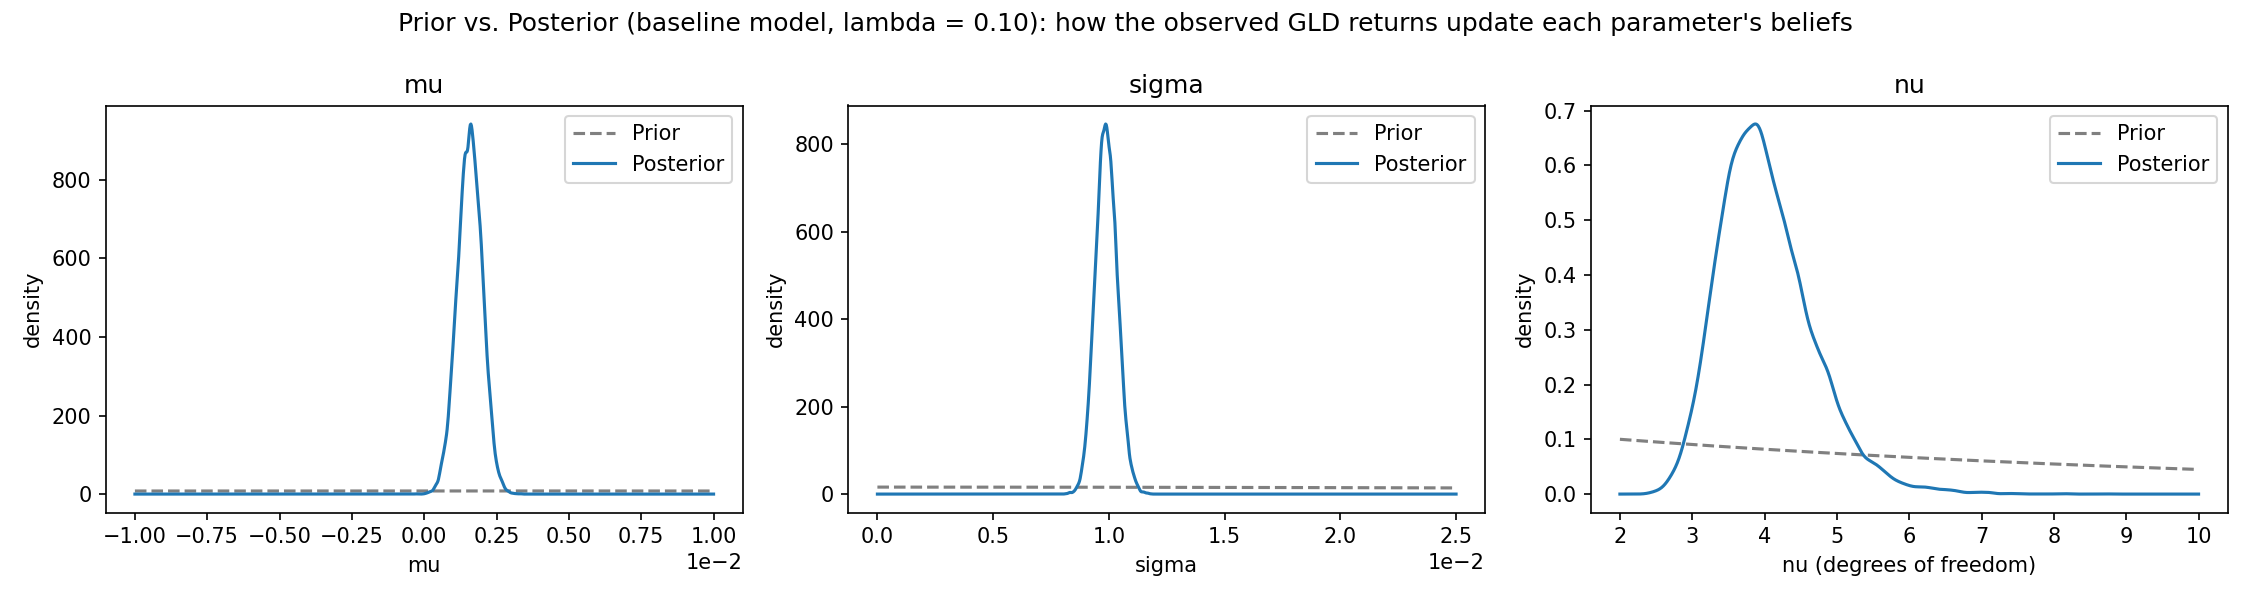
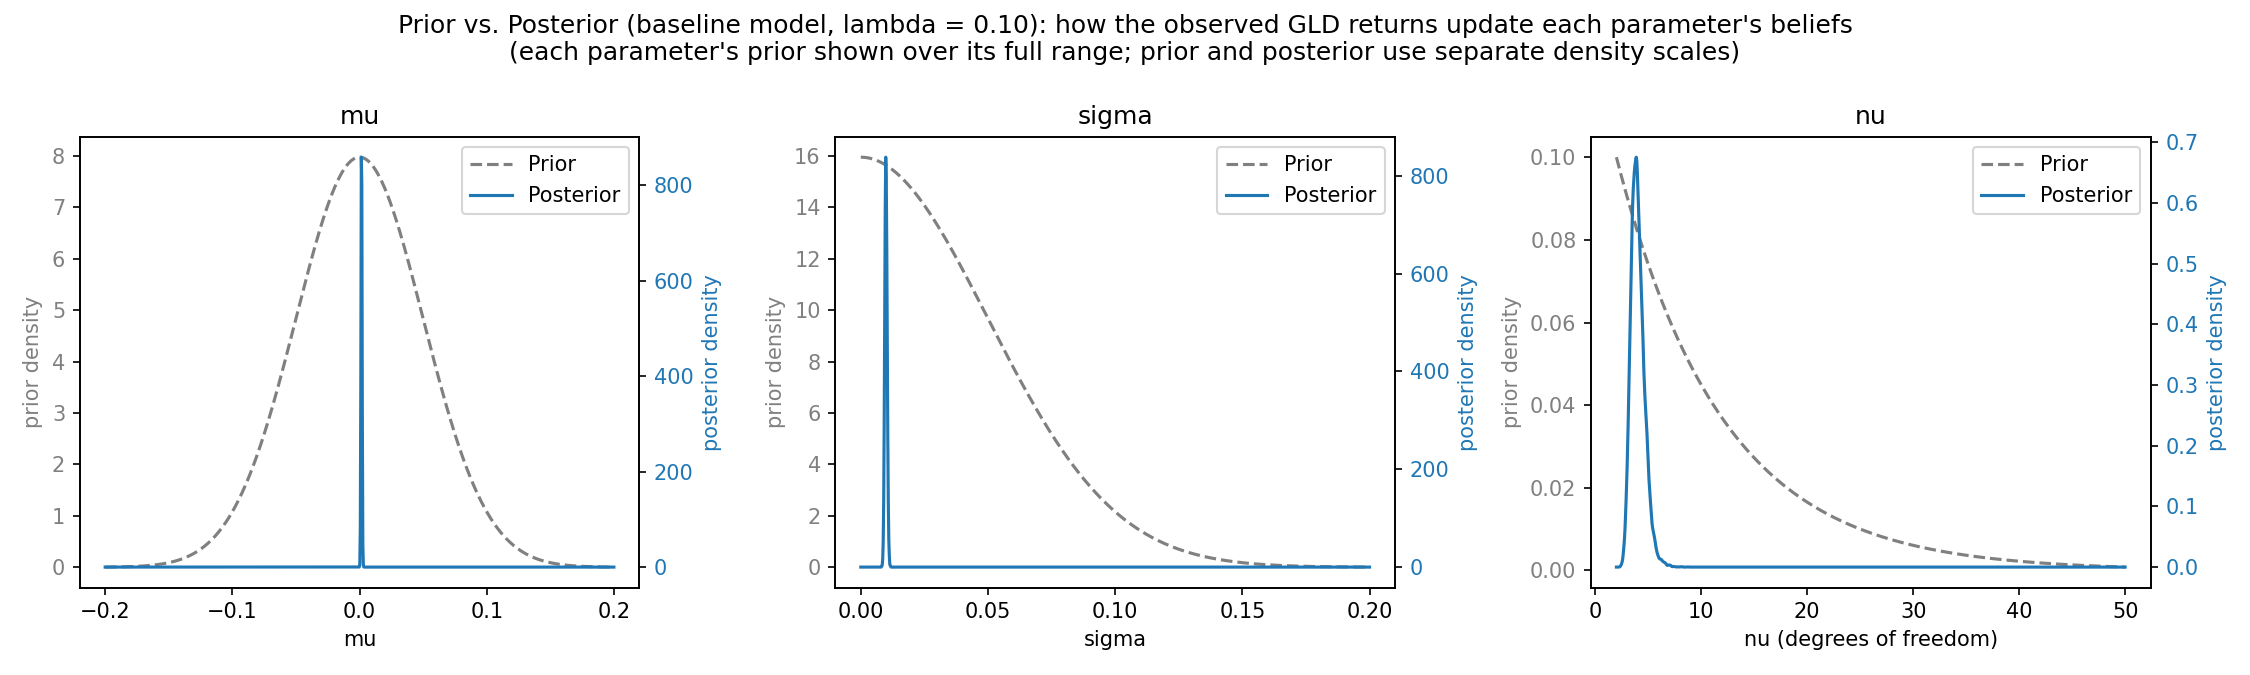
fix: show true prior shapes in prior-vs-posterior plot via twin y-axes
Plotting prior and posterior on a shared y-axis over a narrow window made
every prior look flat/linear, since each prior is far more diffuse than
its posterior. Now each panel plots the prior over its full natural range
(showing the real Normal/Half-Normal/Exponential shape) with the posterior
on a separate y-axis (twinx), so both curves are visible at their own scale.

diff --git a/src/run_mcmc.py b/src/run_mcmc.py
@@ -215,32 +215,48 @@ if __name__ == "__main__":
     baseline_sigma = np.concatenate(baseline_param_chains["sigma"])
     baseline_nu = np.concatenate(baseline_param_chains["nu"])
 
-    # (param label, x-grid, prior pdf, baseline posterior draws, x-axis label)
+    # Each prior's full natural range, wide enough to show its true shape
+    # (bell/half-normal peak/exponential decay). The posterior is far more
+    # concentrated than the prior (that is the point of this plot), so prior
+    # and posterior are put on separate y-axes (twinx) -- sharing one y-axis
+    # would always flatten the lower-peaked curve to a near-invisible line.
+    # (param label, x-grid over the prior's full range, prior pdf,
+    #  baseline posterior draws, x-axis label)
     prior_posterior_specs = [
-        ("mu", np.linspace(-0.01, 0.01, 1000),
+        ("mu", np.linspace(-0.2, 0.2, 1000),
          norm(loc=0.0, scale=0.05).pdf, baseline_mu, "mu"),
-        ("sigma", np.linspace(0.0, 0.025, 1000),
+        ("sigma", np.linspace(0.0, 0.2, 1000),
          halfnorm(scale=0.05).pdf, baseline_sigma, "sigma"),
-        ("nu", np.linspace(2.0, 10.0, 1000),
+        ("nu", np.linspace(2.0, 50.0, 1000),
          expon(loc=2.0, scale=1.0 / 0.1).pdf, baseline_nu,
          "nu (degrees of freedom)"),
     ]
 
-    fig, axes = plt.subplots(1, 3, figsize=(15, 4))
-    for ax, (param, grid, prior_pdf, posterior_draws, xlabel) in zip(
+    fig, axes = plt.subplots(1, 3, figsize=(15, 4.5))
+    for ax_prior, (param, grid, prior_pdf, posterior_draws, xlabel) in zip(
             axes, prior_posterior_specs):
         posterior_density = gaussian_kde(posterior_draws)(grid)
-        ax.plot(grid, prior_pdf(grid), linestyle="--", color="gray", label="Prior")
-        ax.plot(grid, posterior_density, color="C0", label="Posterior")
-        ax.set_xlabel(xlabel)
-        ax.set_ylabel("density")
-        ax.set_title(param)
-        ax.legend()
-        ax.ticklabel_format(axis="x", style="sci", scilimits=(-2, 2))
+
+        ax_prior.plot(grid, prior_pdf(grid), linestyle="--", color="gray", label="Prior")
+        ax_prior.set_xlabel(xlabel)
+        ax_prior.set_ylabel("prior density", color="gray")
+        ax_prior.tick_params(axis="y", labelcolor="gray")
+        ax_prior.set_title(param)
+        ax_prior.ticklabel_format(axis="x", style="sci", scilimits=(-2, 2))
+
+        ax_post = ax_prior.twinx()
+        ax_post.plot(grid, posterior_density, color="C0", label="Posterior")
+        ax_post.set_ylabel("posterior density", color="C0")
+        ax_post.tick_params(axis="y", labelcolor="C0")
+
+        lines = ax_prior.get_lines() + ax_post.get_lines()
+        ax_prior.legend(lines, [line.get_label() for line in lines])
 
     fig.suptitle(
         "Prior vs. Posterior (baseline model, lambda = 0.10): how the "
-        "observed GLD returns update each parameter's beliefs"
+        "observed GLD returns update each parameter's beliefs\n"
+        "(each parameter's prior shown over its full range; "
+        "prior and posterior use separate density scales)"
     )
     fig.tight_layout()
     fig.savefig(FIGURES_DIR / "prior_vs_posterior.png", dpi=150)
